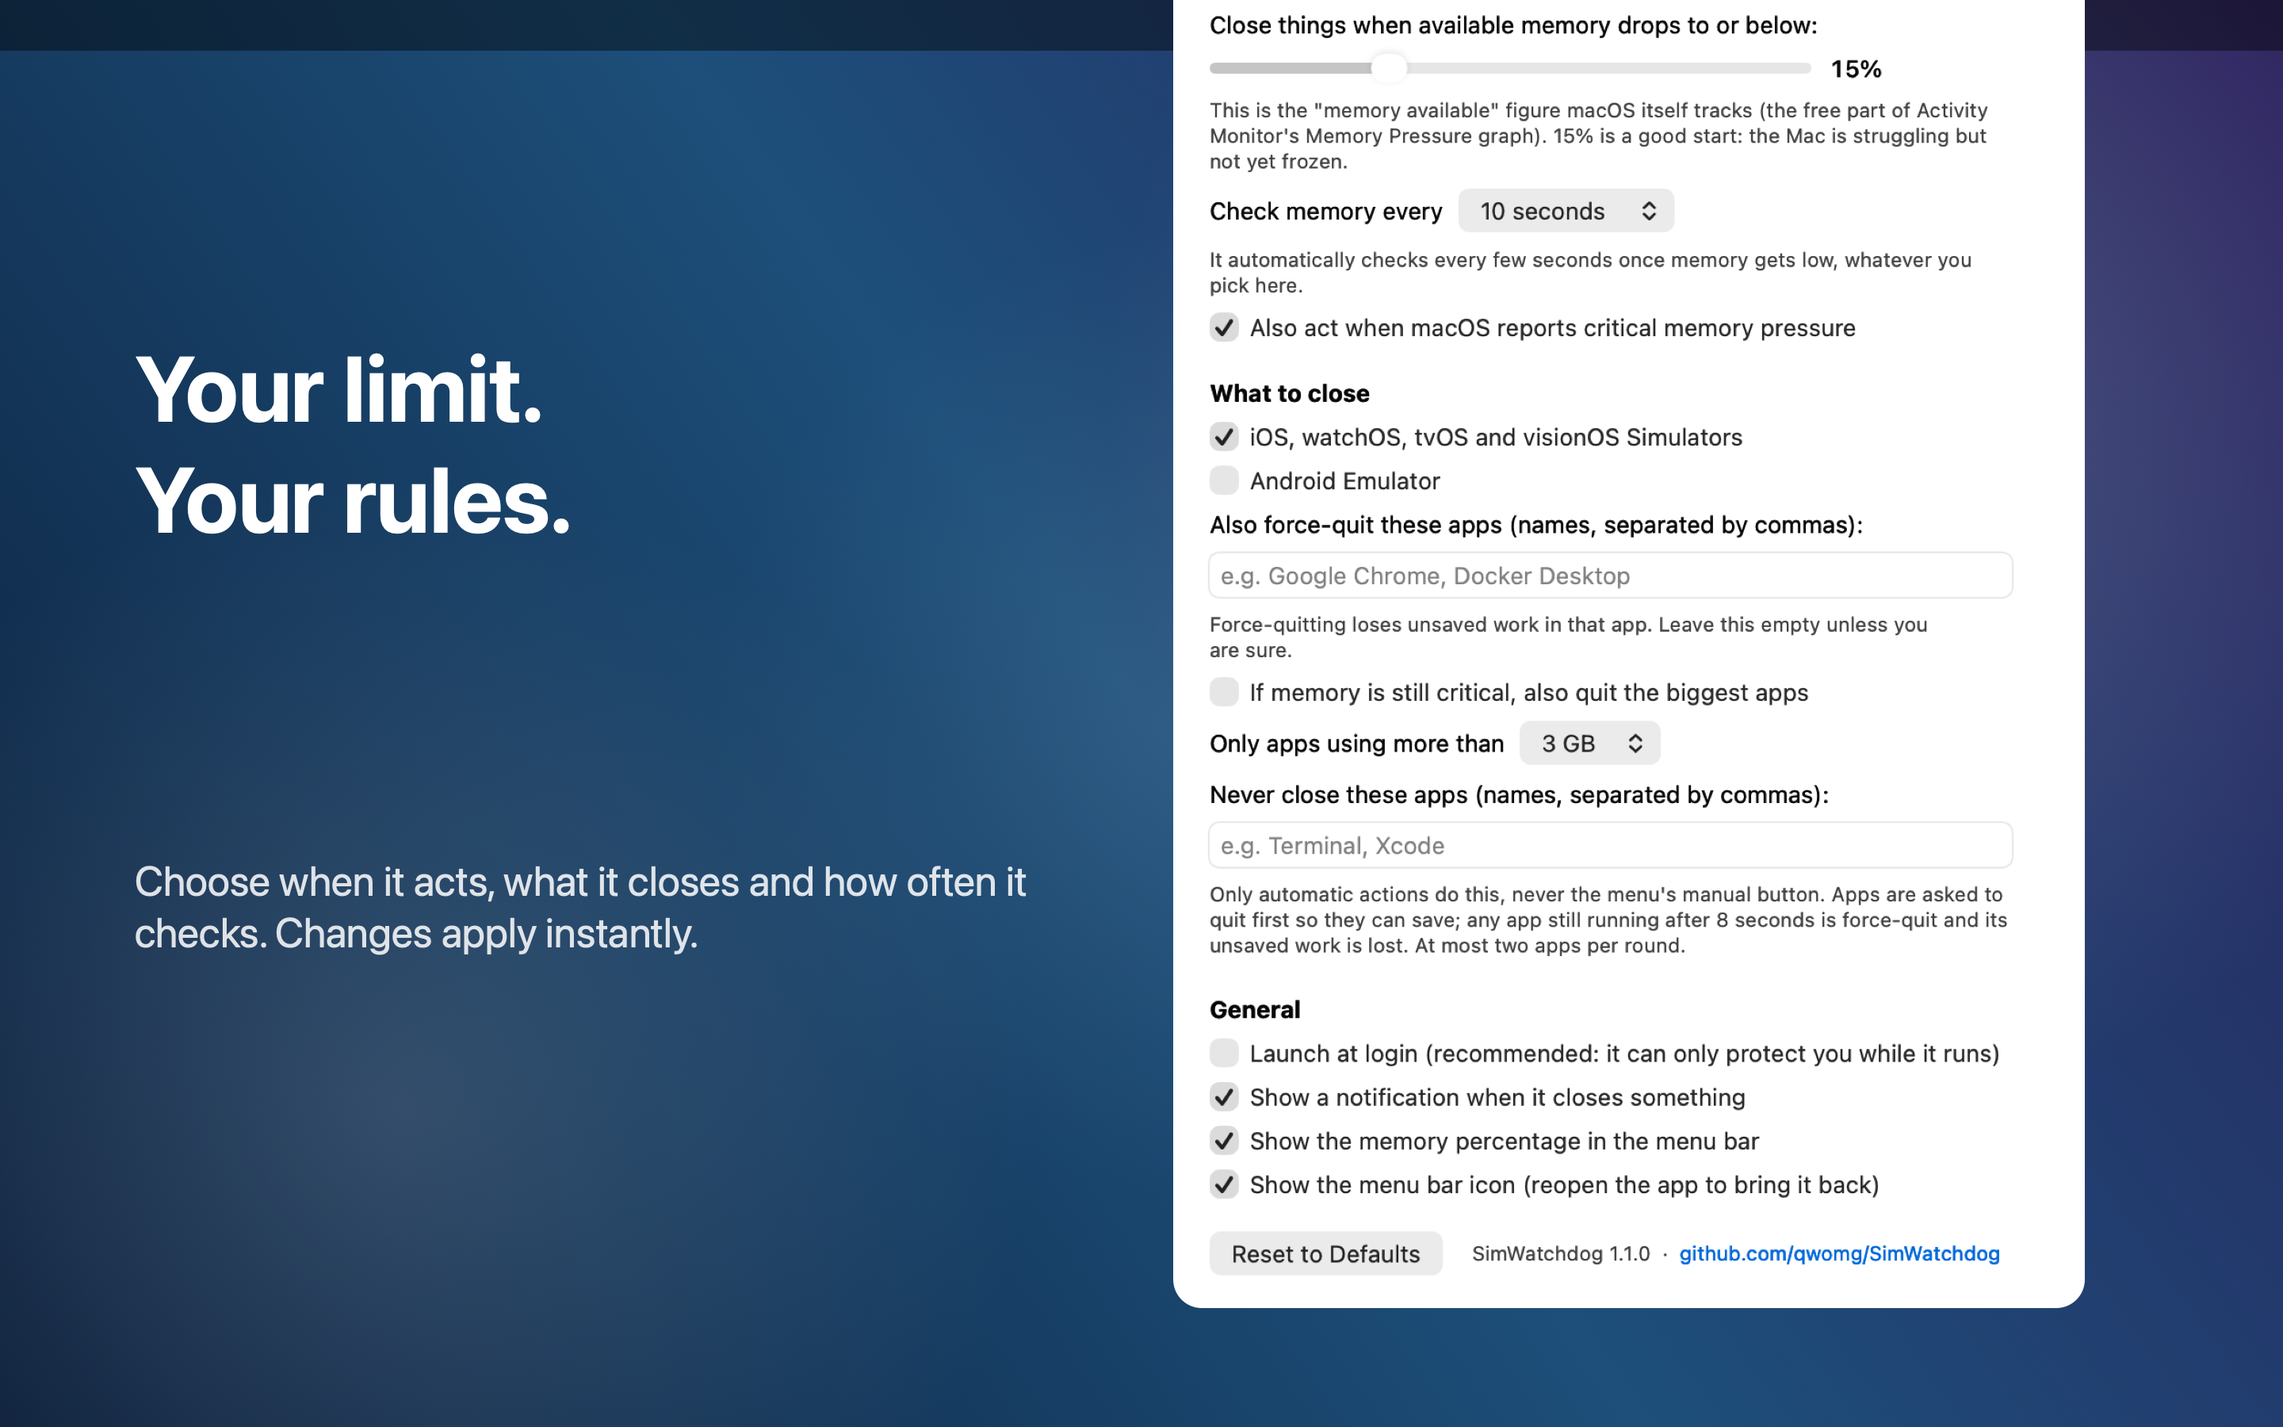
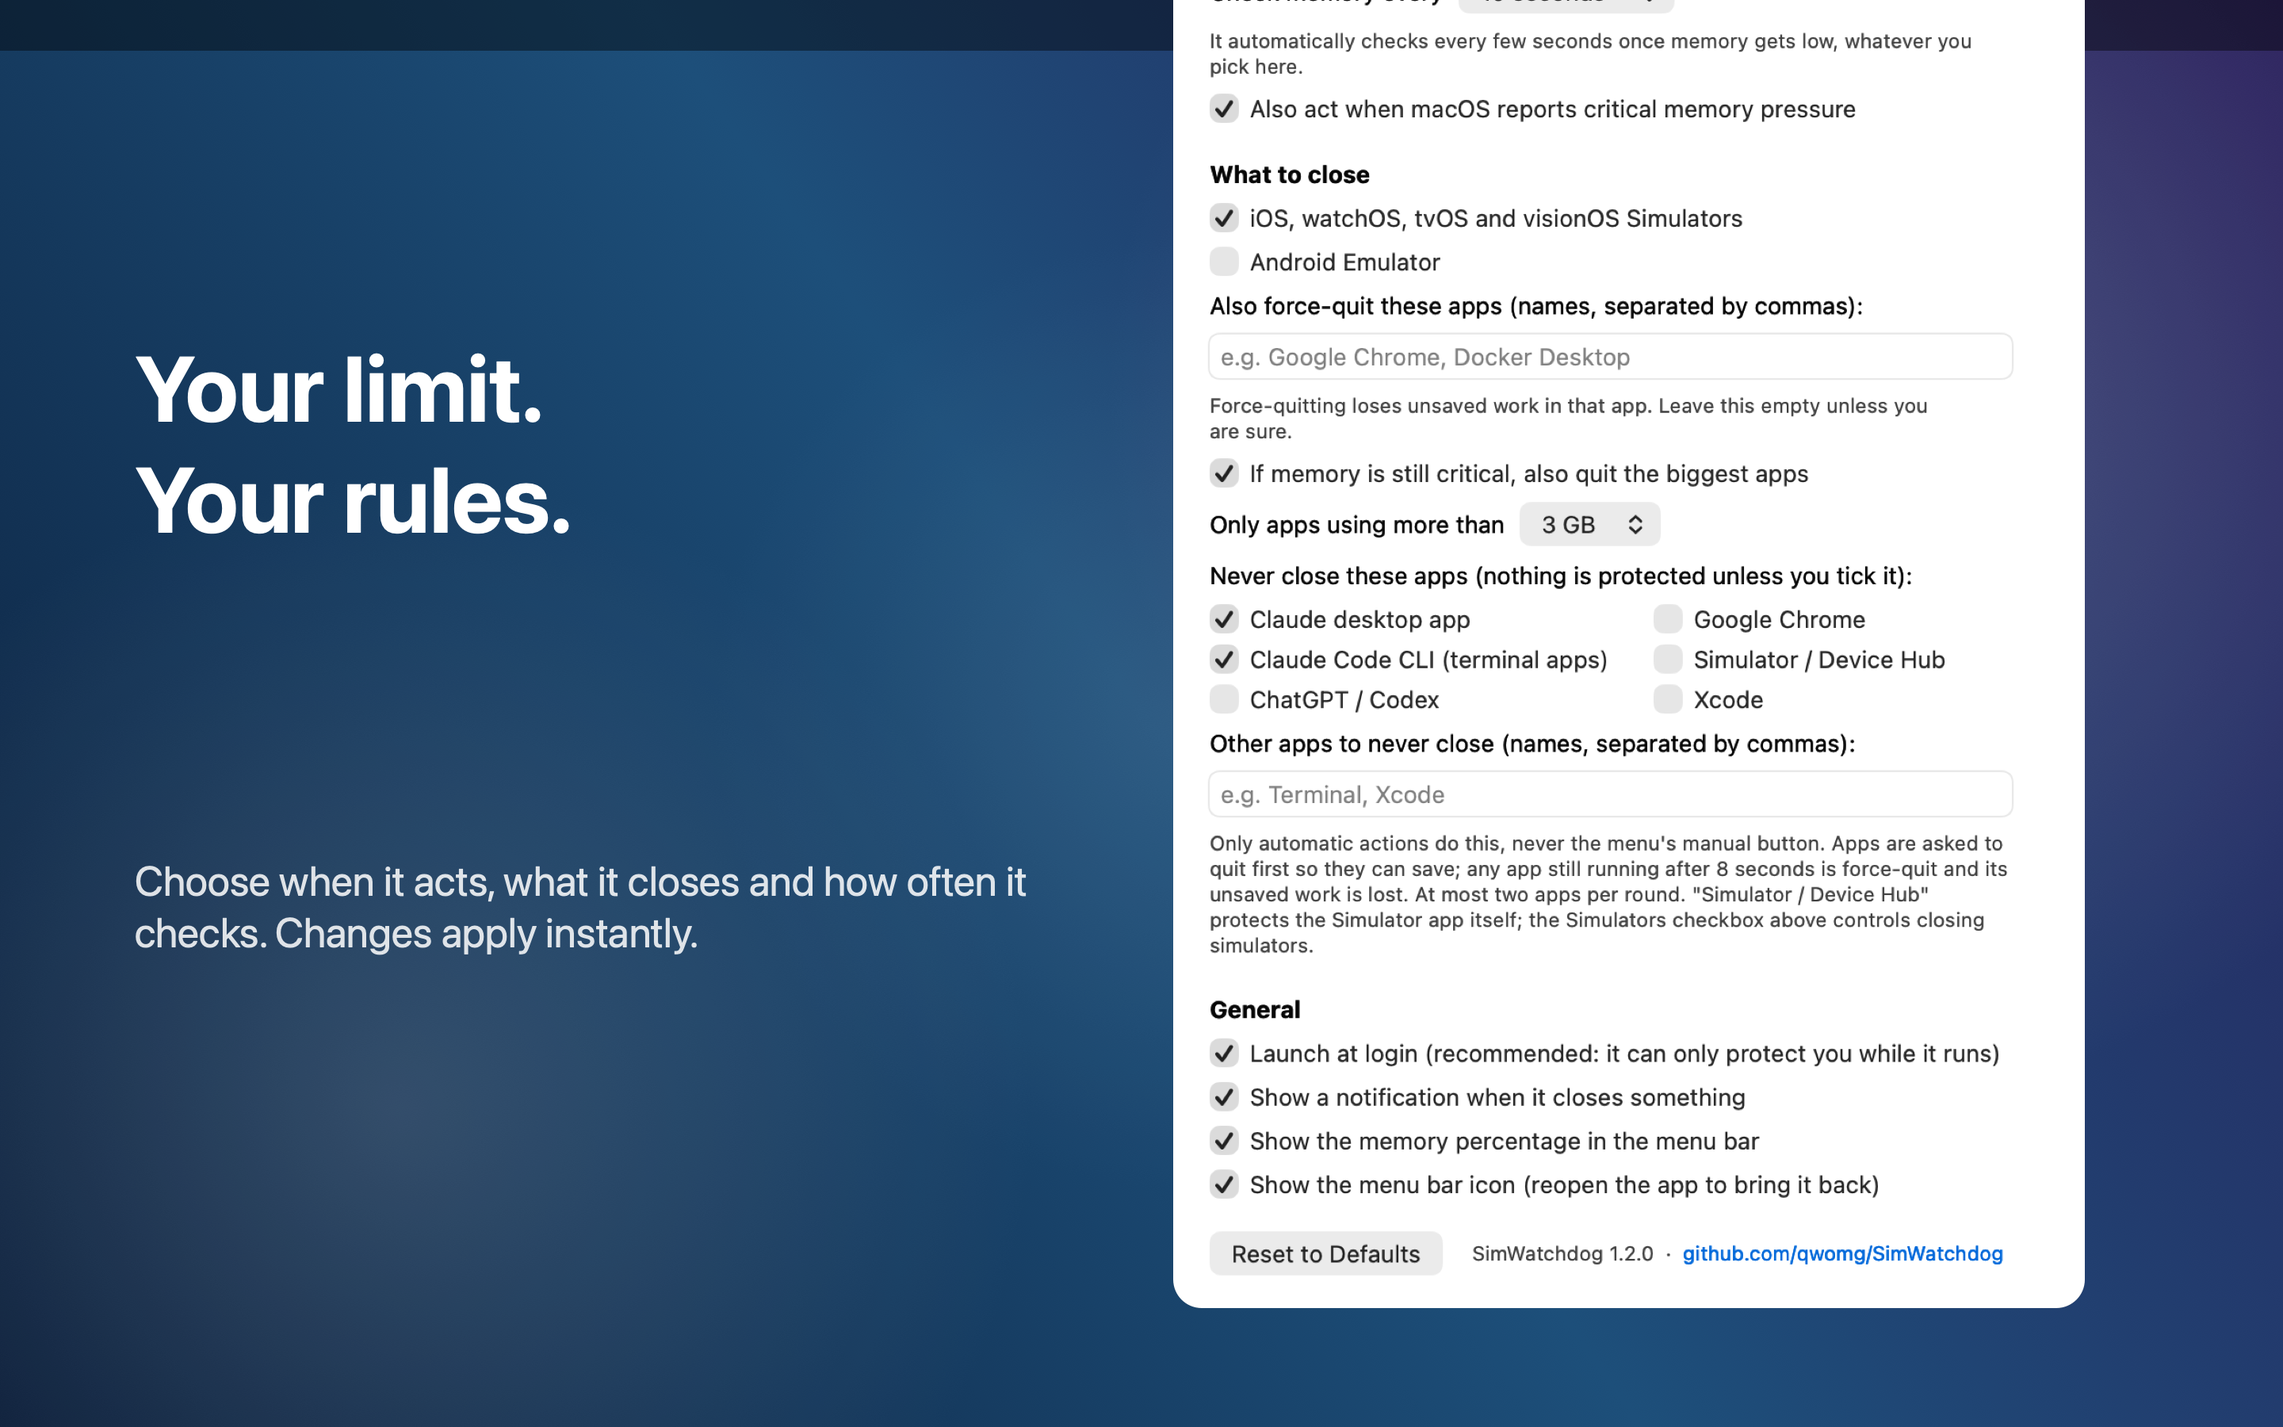
1.2.0: per-app never-close switches (all off by default), biggest-apps step on by default

Changed region(s): [[0.5312, 0.0, 0.875, 0.6844], [0.7188, 0.8711, 0.875, 0.9022]]

diff --git a/Sources/SettingsWindow.swift b/Sources/SettingsWindow.swift
@@ -91,6 +91,20 @@ final class SettingsWindowController: NSWindowController, NSTextFieldDelegate {
         neverField.delegate = self
         neverField.widthAnchor.constraint(equalToConstant: 440).isActive = true
 
+        func column(_ apps: [Settings.KnownApp]) -> NSStackView {
+            let col = NSStackView(views: apps.map { checkbox($0.key, $0.title) })
+            col.orientation = .vertical
+            col.alignment = .leading
+            col.spacing = 6
+            return col
+        }
+        let half = (Settings.knownApps.count + 1) / 2
+        let protectRow = NSStackView(views: [column(Array(Settings.knownApps.prefix(half))),
+                                             column(Array(Settings.knownApps.suffix(from: half)))])
+        protectRow.orientation = .horizontal
+        protectRow.alignment = .top
+        protectRow.spacing = 24
+
         let reset = NSButton(title: "Reset to Defaults", target: self, action: #selector(resetDefaults))
         let link = NSTextField(labelWithAttributedString: {
             let text = "SimWatchdog \(App.version)  ·  github.com/qwomg/SimWatchdog"
@@ -121,9 +135,11 @@ final class SettingsWindowController: NSWindowController, NSTextFieldDelegate {
             help("Force-quitting loses unsaved work in that app. Leave this empty unless you are sure."),
             checkbox("quitBigApps", "If memory is still critical, also quit the biggest apps"),
             bigRow,
-            NSTextField(labelWithString: "Never close these apps (names, separated by commas):"),
+            NSTextField(labelWithString: "Never close these apps (nothing is protected unless you tick it):"),
+            protectRow,
+            NSTextField(labelWithString: "Other apps to never close (names, separated by commas):"),
             neverField,
-            help("Only automatic actions do this, never the menu's manual button. Apps are asked to quit first so they can save; any app still running after 8 seconds is force-quit and its unsaved work is lost. At most two apps per round."),
+            help("Only automatic actions do this, never the menu's manual button. Apps are asked to quit first so they can save; any app still running after 8 seconds is force-quit and its unsaved work is lost. At most two apps per round. \"Simulator / Device Hub\" protects the Simulator app itself; the Simulators checkbox above controls closing simulators."),
 
             heading("General"),
             checkbox("launchAtLogin", "Launch at login (recommended: it can only protect you while it runs)"),
@@ -168,6 +184,7 @@ final class SettingsWindowController: NSWindowController, NSTextFieldDelegate {
         neverField.stringValue = s.neverCloseApps
         bigAppPopup.selectItem(at: Settings.bigAppChoices.firstIndex { $0.megabytes == s.bigAppMinMB } ?? 2)
         checks["quitBigApps"]?.state = s.quitBigApps ? .on : .off
+        for app in Settings.knownApps { checks[app.key]?.state = s.isProtected(app.key) ? .on : .off }
         checks["triggerOnCritical"]?.state = s.triggerOnCritical ? .on : .off
         checks["closeSimulators"]?.state = s.closeSimulators ? .on : .off
         checks["closeAndroidEmulator"]?.state = s.closeAndroidEmulator ? .on : .off
@@ -205,7 +222,10 @@ final class SettingsWindowController: NSWindowController, NSTextFieldDelegate {
         case "showPercent": s.showPercent = on
         case "showIcon": s.showIcon = on
         case "launchAtLogin": setLaunchAtLogin(on)
-        default: break
+        default:
+            if Settings.knownApps.contains(where: { $0.key == sender.identifier?.rawValue }) {
+                s.setProtected(sender.identifier!.rawValue, on)
+            }
         }
     }
 

diff --git a/Sources/Settings.swift b/Sources/Settings.swift
@@ -16,6 +16,28 @@ final class Settings {
         ("1 GB", 1024), ("2 GB", 2048), ("3 GB", 3072), ("4 GB", 4096), ("6 GB", 6144), ("8 GB", 8192),
     ]
 
+    /// Well-known apps the user can protect with one switch. Matching is by app name or bundle identifier.
+    struct KnownApp {
+        let key: String
+        let title: String
+        let names: [String]
+    }
+    static let knownApps: [KnownApp] = [
+        KnownApp(key: "protectClaudeDesktop", title: "Claude desktop app",
+                 names: ["Claude", "com.anthropic.claudefordesktop"]),
+        KnownApp(key: "protectClaudeCode", title: "Claude Code CLI (terminal apps)",
+                 names: ["Terminal", "iTerm2", "iTerm", "Ghostty", "Warp", "kitty", "Alacritty", "WezTerm", "Hyper", "Tabby",
+                         "com.apple.Terminal", "com.googlecode.iterm2"]),
+        KnownApp(key: "protectChatGPT", title: "ChatGPT / Codex",
+                 names: ["ChatGPT", "Codex", "com.openai.chat"]),
+        KnownApp(key: "protectChrome", title: "Google Chrome",
+                 names: ["Google Chrome", "Google Chrome Beta", "Google Chrome Canary", "com.google.Chrome"]),
+        KnownApp(key: "protectSimulator", title: "Simulator / Device Hub",
+                 names: ["Simulator", "Device Hub", "com.apple.iphonesimulator"]),
+        KnownApp(key: "protectXcode", title: "Xcode",
+                 names: ["Xcode", "Xcode-beta", "com.apple.dt.Xcode"]),
+    ]
+
     private let d = UserDefaults.standard
     private let defaults: [String: Any] = [
         "threshold": 15,
@@ -24,7 +46,13 @@ final class Settings {
         "closeSimulators": true,
         "closeAndroidEmulator": false,
         "extraApps": "",
-        "quitBigApps": false,
+        "quitBigApps": true,                // on by default: nothing is protected until the user opts in
+        "protectClaudeDesktop": false,
+        "protectClaudeCode": false,
+        "protectChatGPT": false,
+        "protectChrome": false,
+        "protectSimulator": false,
+        "protectXcode": false,
         "bigAppMinMB": 3072,
         "neverCloseApps": "",
         "notify": true,
@@ -85,8 +113,14 @@ final class Settings {
         get { d.string(forKey: "neverCloseApps") ?? "" }
         set { store(newValue, "neverCloseApps") }
     }
+    func isProtected(_ key: String) -> Bool { d.bool(forKey: key) }
+    func setProtected(_ key: String, _ value: Bool) { store(value, key) }
+
+    /// Everything that must never be closed automatically: the switched-on known apps plus the free-text list.
     var neverCloseNames: [String] {
-        neverCloseApps.split(separator: ",").map { $0.trimmingCharacters(in: .whitespaces) }.filter { !$0.isEmpty }
+        let typed = neverCloseApps.split(separator: ",").map { $0.trimmingCharacters(in: .whitespaces) }.filter { !$0.isEmpty }
+        let known = Settings.knownApps.filter { isProtected($0.key) }.flatMap { $0.names }
+        return typed + known
     }
     var notify: Bool {
         get { d.bool(forKey: "notify") }

diff --git a/Sources/AppDelegate.swift b/Sources/AppDelegate.swift
@@ -206,7 +206,7 @@ final class AppDelegate: NSObject, NSApplicationDelegate, NSMenuDelegate, UNUser
         NSApp.activate(ignoringOtherApps: true)
         let alert = NSAlert()
         alert.messageText = "SimWatchdog is running"
-        alert.informativeText = "It lives in your menu bar and checks memory in the background. If your Mac gets close to running out of memory, it force-closes iOS Simulators first, so macOS never has to crash or restart.\n\nStart it automatically when you log in? It can only protect you while it is running."
+        alert.informativeText = "It lives in your menu bar and checks memory in the background. If your Mac gets close to running out of memory, it closes iOS Simulators first and, if memory is still critical, asks the biggest apps to quit (unsaved work in an app that refuses is lost). You can switch that off or protect specific apps in Settings.\n\nStart it automatically when you log in? It can only protect you while it is running."
         alert.addButton(withTitle: "Start at Login")
         alert.addButton(withTitle: "Not Now")
         if alert.runModal() == .alertFirstButtonReturn { try? SMAppService.mainApp.register() }

diff --git a/README.md b/README.md
@@ -9,7 +9,7 @@ If your Mac keeps showing **"Your computer was restarted because of a problem"**
 </p>
 
 - Lives in the menu bar and shows your free memory (turns red as you get close)
-- Closes simulators automatically when available memory drops below a level you choose, and (opt-in) asks the biggest apps to quit if memory is still critical
+- Closes simulators automatically when available memory drops below a level you choose, and, if memory is still critical, asks the biggest apps to quit (on by default; switch it off or protect individual apps in Settings)
 - Writes a **"TOP apps" line to its log every time it triggers**, so you can see what was really eating your memory
 - About 55 MB of RAM and 0% CPU when idle: it reads one number from the kernel every few seconds
 - Universal binary (Apple Silicon and Intel), macOS 13 or later, no dependencies, no network access, no telemetry
@@ -76,9 +76,10 @@ Click the menu bar icon > **Settings...** (or just open the app again).
 | Also act on critical memory pressure | on | Triggers when macOS itself says pressure is critical, even above the threshold. |
 | iOS / watchOS / tvOS / visionOS Simulators | on | Shut down and kill all simulator processes. |
 | Android Emulator | off | Also kill running Android emulators. |
-| If memory is still critical, also quit the biggest apps | off | Opt-in. After simulators and listed apps are closed, if memory is still low it asks the largest apps (Chrome and Electron apps count all their helper processes) to quit, and force-quits any still running after 8 seconds. At most 2 apps per round. |
+| If memory is still critical, also quit the biggest apps | **on** | After simulators and listed apps are closed, if memory is still low it asks the largest apps (Chrome and Electron apps count all their helper processes) to quit, and force-quits any still running after 8 seconds. At most 2 apps per round. |
 | Only apps using more than | 3 GB | Size an app must reach to be a candidate (1-8 GB). |
-| Never close these apps | empty | Names (comma-separated) that are never closed automatically, e.g. `Terminal, Xcode`. Finder, the Dock and SimWatchdog itself are always protected. |
+| Never close: Claude desktop app, Claude Code CLI (the terminal apps it runs in), ChatGPT / Codex, Google Chrome, Simulator / Device Hub, Xcode | **all off** | One switch per app. **Nothing is protected unless you tick it**, so by default these apps are fair game when memory is critical. "Simulator / Device Hub" protects the Simulator app itself; the Simulators switch above controls closing simulators. |
+| Other apps to never close | empty | Any other app names (comma-separated). Finder, the Dock and SimWatchdog itself are always protected. |
 | Force-quit these apps | empty | Names (comma-separated) of other apps to force-quit, e.g. `Google Chrome, Docker Desktop`. Unsaved work in them is lost, so use with care. |
 | Launch at login | asks on first run | Starts SimWatchdog when you log in. |
 | Notification, % in menu bar, show icon | on | Cosmetic. If you hide the icon, open the app again to bring it back. |
@@ -121,7 +122,7 @@ If the compressor is at or near **100% with "(BAD)"** and there are many swap fi
 1. Every few seconds it reads the kernel's `kern.memorystatus_level` (the percentage of memory macOS considers available, the same figure behind Activity Monitor's *Memory Pressure* graph) and `kern.memorystatus_vm_pressure_level`.
 2. If available memory is at or below your threshold (default **15%**), or macOS reports *critical* pressure, it checks again 3 seconds later so a momentary spike doesn't trigger it.
 3. If it is still low, it runs `xcrun simctl shutdown all`, waits at most 4 seconds, then force-kills whatever simulator processes are left, and shows a notification.
-4. If **"also quit the biggest apps"** is on and memory is still low 5 seconds later, it asks the largest non-protected apps over your size limit to quit (so they can save), force-quits any that are still running after 8 seconds, and logs which ones.
+4. If **"also quit the biggest apps"** is on (the default) and memory is still low 5 seconds later, it asks the largest non-protected apps over your size limit to quit (so they can save), force-quits any that are still running after 8 seconds, and logs which ones.
 5. It then waits 45 seconds before it can act again. As memory gets close to the limit it automatically checks more often, whatever interval you chose.
 
 Everything else (Xcode, your editor, browsers) is left alone unless you list it in the settings or turn on the biggest-apps option.
@@ -191,6 +192,8 @@ rm -f ~/Library/Logs/SimWatchdog.log
 If you enabled *Launch at login*, turn it off first in the settings, or remove it in **System Settings > General > Login Items**.
 
 ## FAQ
+
+**Is it safe that it quits apps by default?** Apps are asked to quit first, so most save their work and close normally; only an app that is still running 8 seconds later is force-quit, and its unsaved work is lost. It only happens when memory is critical (when macOS itself is about to freeze), and only to the two biggest apps over your size limit. If you would rather it never touches an app, tick it under "Never close" in Settings, or switch the whole option off.
 
 **My Mac still froze. Why?** Open the log (menu bar icon > Show Log) and find the last `TOP apps:` line. If the biggest users are not simulators, turn on *If memory is still critical, also quit the biggest apps* in Settings. If one app (browsers and Electron apps are the usual suspects) grows without stopping, that app has a memory leak: SimWatchdog can keep your Mac alive, but only that app's developer can fix the leak.
 

diff --git a/CHANGELOG.md b/CHANGELOG.md
@@ -1,5 +1,10 @@
 # Changelog
 
+## 1.2.0
+- "Quit the biggest apps when memory is still critical" is now **on by default**.
+- New "Never close" switches, one per well-known app: Claude desktop app, Claude Code CLI (terminal apps), ChatGPT / Codex, Google Chrome, Simulator / Device Hub, Xcode. **All off by default**: nothing is protected unless the user ticks it. The free-text "other apps" list stays.
+- First-run welcome text explains the biggest-apps step.
+
 ## 1.1.0
 - New, opt-in escalation: if memory is still critical after simulators and listed apps are closed, ask the biggest apps to quit (force-quit after 8 s). Settings: on/off, minimum size, a "never close" list. At most 2 apps per round.
 - The log now records the top memory-using apps at every trigger (`TOP apps:`) and a `STATUS` line every 5 minutes while macOS reports memory pressure.
